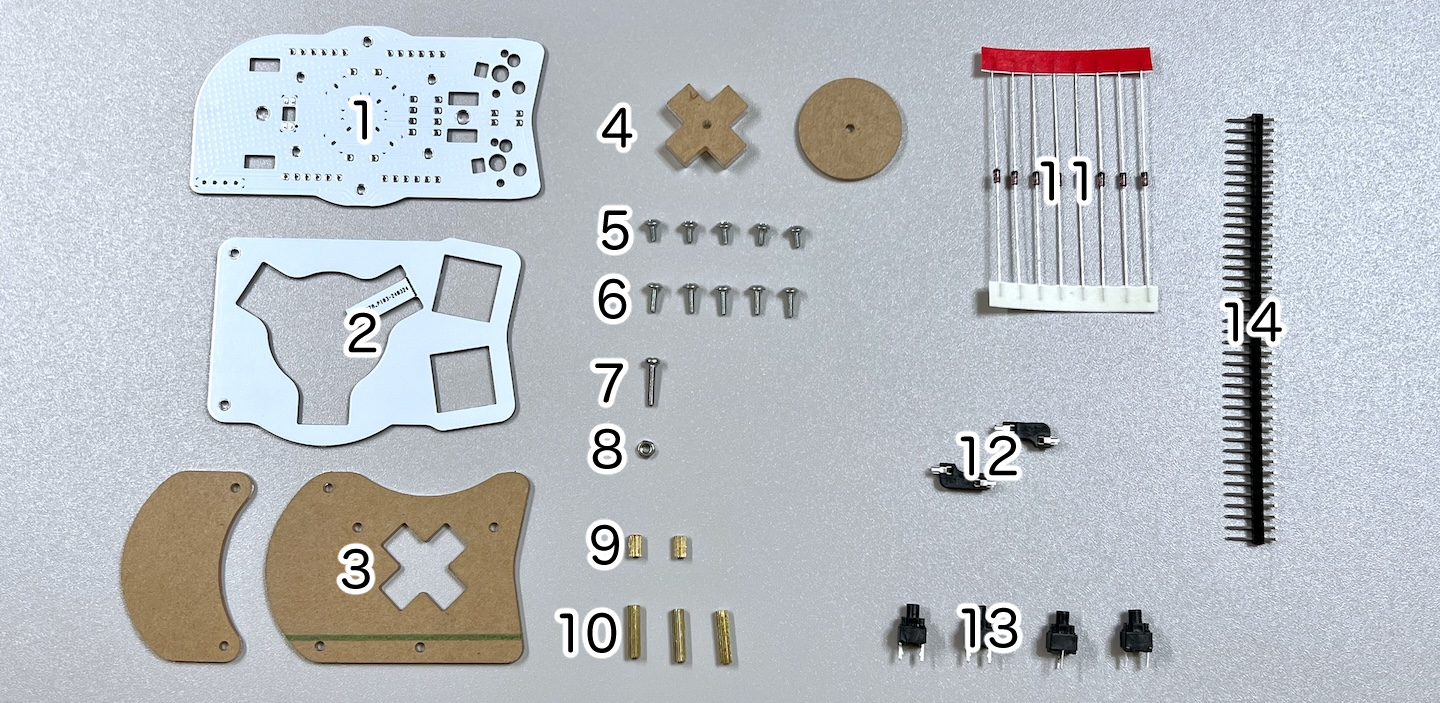
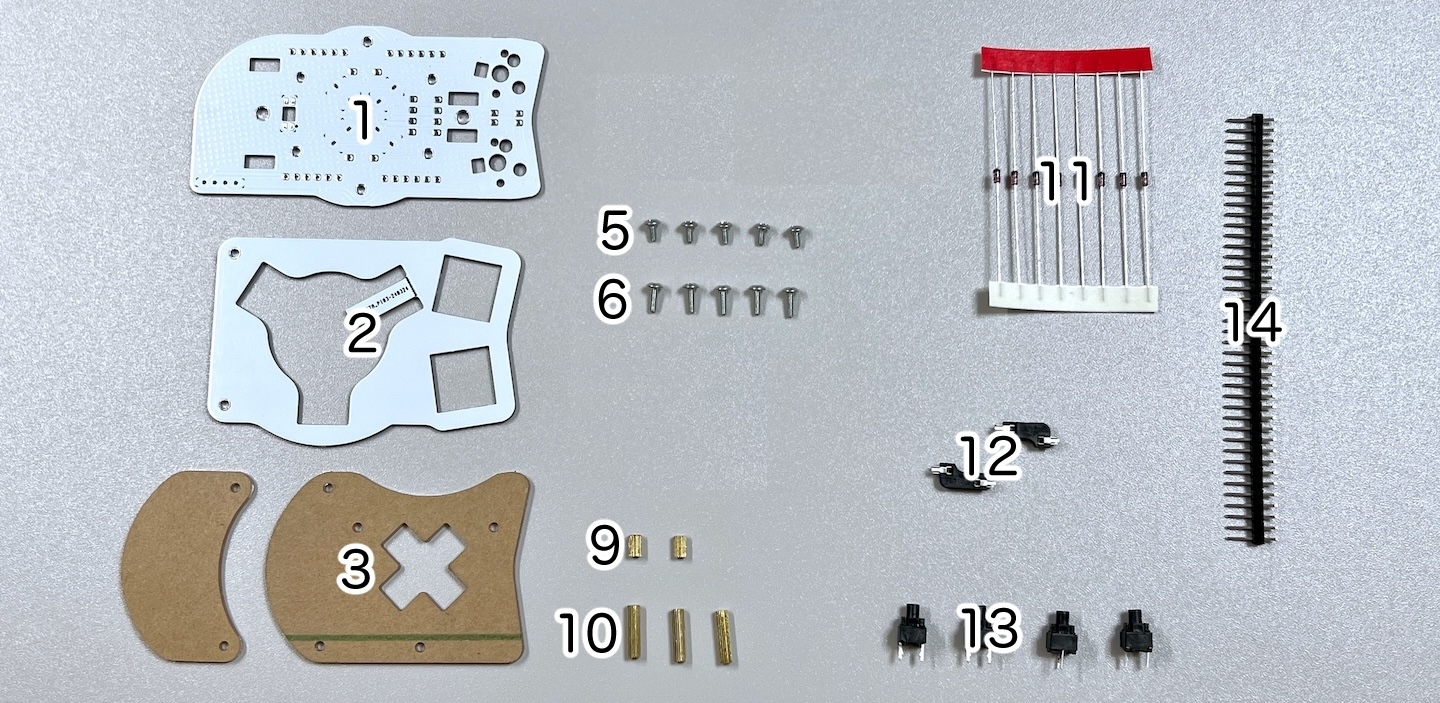
upd

Changed region(s): [[0.4062, 0.0896, 0.6562, 0.2688], [0.4062, 0.5078, 0.4688, 0.6871]]

diff --git a/rightside/3_SIDE_DPAD.md b/rightside/3_SIDE_DPAD.md
@@ -15,7 +15,7 @@
 8. [Misc](../rightside/8_MISC.md)
 
 ## Contents
-![](../img/3_2_dpad_r/3_1_1_contents.jpg)      
+![](../img/3_2_dpad_r/3_1_1_contents.jpg)
 ||types|quantities||
 |-|-|-|-|
 |1|Mainboard|1|FR4|
@@ -33,50 +33,53 @@
 |13|Mute switches|4|
 |14|Pin header|1||
 
+The following 3D printed parts are also used.
+![](../img/3_1_trackball_r/IMG_3353.jpg)
+
 ## Soldering
 Note that components will be placed on both sides of the side unit.
-![](../img/3_2_dpad_r/3_1_2_overall.jpg)  
+![](../img/3_2_dpad_r/3_1_2_overall.jpg)
 The PCB side with text in Japanese is the back side.
 
-### Soldering of the LEDs (optional)  
+### Soldering of the LEDs (optional)
 Solder the 3 LEDs. The round LED should be facing away from the side where soldering is done.
-![](../img/3_2_dpad_r/3_1_3_led.jpg)  
+![](../img/3_2_dpad_r/3_1_3_led.jpg)
 
 ### Soldering of MX hotswap socket (back side)
 From the back side of the unit, solder the MX hotswap sockets while keeping them in place with tweezers.
-![](../img/3_2_dpad_r/3_1_4_mxsocket.jpg)  
+![](../img/3_2_dpad_r/3_1_4_mxsocket.jpg)
 
 
 ### Soldering of the diodes (back side)
 Diodes are directional components. Make sure to align the lines with markings on the PCB.
-![](../img/c_diode.jpg)  
+![](../img/c_diode.jpg)
 Insert the diodes in the 4 locations on the back side of the PCB, and solder from the front side of the PCB, and cut the diode legs.
-![](../img/3_2_dpad_r/3_1_5_diodes.jpg)   
+![](../img/3_2_dpad_r/3_1_5_diodes.jpg)
 
 
 ### Soldering of pin headers (back side)
-Cut out four sets of 6 pins from the 40 pin headers. 
+Cut out four sets of 6 pins from the 40 pin headers.
 
-![](../img/c_pin_header_6.jpg)   
+![](../img/c_pin_header_6.jpg)
 Insert the pin headers from the back side and solder.
 > [!WARNING]
 > Insert the long side of the pins. In case you did it the other way around, cut the long side in order to match the length of the short side.
 
-![](../img/3_2_dpad_r/3_1_10_pin_header.jpg) 
+![](../img/3_2_dpad_r/3_1_10_pin_header.jpg)
 
 ### Soldering of OLED Display (optional, front side)
-If you want to make the OLED module removable, solder a 4pin socket on the surface.  
-![](../img/3_2_dpad_r/3_1_11_oled_socket.jpg)   
+If you want to make the OLED module removable, solder a 4pin socket on the surface.
+![](../img/3_2_dpad_r/3_1_11_oled_socket.jpg)
 
 Solder the pin headers to the OLED module.
-![](../img/c_oled_header.jpg)  
+![](../img/c_oled_header.jpg)
 If the OLED module is to be soldered directly, solder it to the main board at this time.
 
 ### Mute switch
 ### Soldering of the Kailh mute switches (front side)
 Insert the switches from the front side of the PCB and solder from the back side.
 
-![](../img/3_2_dpad_r/3_1_12_mute_switch.jpg)  
+![](../img/3_2_dpad_r/3_1_12_mute_switch.jpg)
 
 
 ## Intermediate assembly and soldering of sockets
@@ -84,17 +87,17 @@ Insert the switches from the front side of the PCB and solder from the back side
 ### Assembling the switch plate
 
 If the switch plate is tagged, fold it and then sand it.
-![](../img/c_switch_l.jpg)   
+![](../img/c_switch_l.jpg)
 Attach the M2 long spacers and M2 short screws to the switch plate.
 > [!NOTE]
 > The switch plate has an orientation (lower and top part).
 
-![](../img/3_2_dpad_r/3_1_15_switch_1.jpg)  
-  
-Attach the protection acrylic sheets to the spacers with M2 middle screws.  
-![](../img/3_2_dpad_r/3_1_16_switch_2.jpg) 
+![](../img/3_2_dpad_r/3_1_15_switch_1.jpg)
+
+Attach the protection acrylic sheets to the spacers with M2 middle screws.
+![](../img/3_2_dpad_r/3_1_16_switch_2.jpg)
 Put the large protection acrylic sheet on top.
-![](../img/3_2_dpad_r/3_1_17_switch_3.jpg)  
+![](../img/3_2_dpad_r/3_1_17_switch_3.jpg)
 
 ### Connecting to the BASE unit
 Attach long M2 spacers with M2 short screws to the SIDE unit.
@@ -102,39 +105,37 @@ Attach long M2 spacers with M2 short screws to the SIDE unit.
 > [!NOTE]
 > There should be one spacer on the bottom side of the SIDE unit and two to the top, forming an equilateral triangle.
 
-![](../img/3_2_dpad_r/3_1_18_spacers.jpg)  
+![](../img/3_2_dpad_r/3_1_18_spacers.jpg)
 
 
 If this is the first SIDE unit that you have built, remove two sets of 6 pins from the remaining BASE unit pin headers, and insert them in the pin sockets of the SIDE unit.
-![](../img/c_pin_socket_6.jpg)   
-![](../img/3_2_dpad_r/3_1_19_pinsocket.jpg)  
+![](../img/c_pin_socket_6.jpg)
+![](../img/3_2_dpad_r/3_1_19_pinsocket.jpg)
 
-Place the SIDE unit on the supports and secure it with the M3 screws excessed in base unit. 
+Place the SIDE unit on the supports and secure it with the M3 screws excessed in base unit.
 > [!CAUTION]
 > Make sure that the legs of the pin sockets are inside the long through-holes of the BASE unit.
 
-![](../img/3_2_dpad_r/3_1_27_base_1.jpg)   
+![](../img/3_2_dpad_r/3_1_27_base_1.jpg)
 
 Solder the pin sockets from the back side of the BASE unit.
-![](../img/3_2_dpad_r/3_1_28_base_2.jpg)  
+![](../img/3_2_dpad_r/3_1_28_base_2.jpg)
 This is the last soldering step for the SIDE unit.
 
-In case you plan on using the OLED module, insert it in the pin socket.  
-![](../img/3_2_dpad_r/3_1_29_base_3.jpg)   
+In case you plan on using the OLED module, insert it in the pin socket.
+![](../img/3_2_dpad_r/3_1_29_base_3.jpg)
 
-Attach MX switches to the switch plate, and insert them in the MX sockets, so that the D pad is in the middle.   
-![](../img/3_2_dpad_r/3_1_30_complete.jpg)   
-Secure the protection plate with M2 middle screws.
- 
+Attach MX switches to the switch plate, and insert them in the MX sockets, so that the D pad is in the middle.
+![](../img/3_2_dpad_l/IMG_3356.jpg)
+![](../img/3_2_dpad_r/3_1_30_complete.jpg)
 
-Confirm that everything is working by connecting the unit to a computer with a USB cable.  
+
+Confirm that everything is working by connecting the unit to a computer with a USB cable.
 > [!NOTE]
-> The LEDs will not work until the TOP (and ADD) units are completed.  
+> The LEDs will not work until the TOP (and ADD) units are completed.
 
 If the keys and ball are working, proceed with the TOP unit assembly
 There are two types of top unit: the one included in the package, and a top unit with wheels sold separately.
 
 4. [TOP Unit](../rightside/4_TOP.md)
    - [TOP Unit with wheel (sold separately)](../rightside/4_TOP_WHEEL.md)
-
-

diff --git a/leftside/3_SIDE_DPAD.md b/leftside/3_SIDE_DPAD.md
@@ -15,7 +15,7 @@
 8. [Misc](../leftside/8_MISC.md)
 
 ## Contents
-![](../img/3_2_dpad_l/3_1_1_contents.jpg)      
+![](../img/3_2_dpad_l/3_1_1_contents.jpg)
 ||types|quantities||
 |-|-|-|-|
 |1|Mainboard|1|FR4|
@@ -33,50 +33,53 @@
 |13|Mute switches|4|
 |14|Pin header|1||
 
+The following 3D printed parts are also used.
+![](../img/3_1_trackball_r/IMG_3353.jpg)
+
 ## Soldering
 Note that components will be placed on both sides of the side unit.
-![](../img/3_2_dpad_l/3_1_2_overall.jpg)  
+![](../img/3_2_dpad_l/3_1_2_overall.jpg)
 The PCB side with text in Japanese is the back side.
 
-### Soldering of the LEDs (optional)  
+### Soldering of the LEDs (optional)
 Solder the 3 LEDs. The round LED should be facing away from the side where soldering is done.
-![](../img/3_2_dpad_l/3_1_3_led.jpg)  
+![](../img/3_2_dpad_l/3_1_3_led.jpg)
 
 ### Soldering of MX hotswap socket (back side)
 From the back side of the unit, solder the MX hotswap sockets while keeping them in place with tweezers.
-![](../img/3_2_dpad_l/3_1_4_mxsocket.jpg)  
+![](../img/3_2_dpad_l/3_1_4_mxsocket.jpg)
 
 
 ### Soldering of the diodes (back side)
 Diodes are directional components. Make sure to align the lines with markings on the PCB.
-![](../img/c_diode.jpg)  
+![](../img/c_diode.jpg)
 Insert the diodes in the 8 locations on the back side of the PCB, and solder from the front side of the PCB, and cut the diode legs.
-![](../img/3_2_dpad_l/3_1_5_diodes.jpg)   
+![](../img/3_2_dpad_l/3_1_5_diodes.jpg)
 
 
 ### Soldering of pin headers (back side)
-Cut out four sets of 6 pins from the 40 pin headers. 
+Cut out four sets of 6 pins from the 40 pin headers.
 
-![](../img/c_pin_header_6.jpg)   
+![](../img/c_pin_header_6.jpg)
 Insert the pin headers from the back side and solder.
 > [!WARNING]
 > Insert the long side of the pins. In case you did it the other way around, cut the long side in order to match the length of the short side.
 
-![](../img/3_2_dpad_l/3_1_10_pin_header.jpg) 
+![](../img/3_2_dpad_l/3_1_10_pin_header.jpg)
 
 ### Soldering of OLED Display (optional, front side)
-If you want to make the OLED module removable, solder a 4pin socket on the surface.  
-![](../img/3_2_dpad_l/3_1_11_oled_socket.jpg)   
+If you want to make the OLED module removable, solder a 4pin socket on the surface.
+![](../img/3_2_dpad_l/3_1_11_oled_socket.jpg)
 
 Solder the pin headers to the OLED module.
-![](../img/c_oled_header.jpg)  
+![](../img/c_oled_header.jpg)
 If the OLED module is to be soldered directly, solder it to the main board at this time.
 
 ### Mute switch
 ### Soldering of the Kailh mute switches (front side)
 Insert the switches from the front side of the PCB and solder from the back side.
 
-![](../img/3_2_dpad_l/3_1_12_mute_switch.jpg)  
+![](../img/3_2_dpad_l/3_1_12_mute_switch.jpg)
 
 
 ## Intermediate assembly and soldering of sockets
@@ -84,17 +87,17 @@ Insert the switches from the front side of the PCB and solder from the back side
 ### Assembling the switch plate
 
 If the switch plate is tagged, fold it and then sand it.
-![](../img/c_switch_l.jpg)   
+![](../img/c_switch_l.jpg)
 Attach the M2 long spacers and M2 short screws to the switch plate.
 > [!NOTE]
 > The switch plate has an orientation (lower and top part).
 
-![](../img/3_2_dpad_l/3_1_15_switch_1.jpg)  
-  
-Attach the protection acrylic sheets to the spacers with M2 middle screws.  
-![](../img/3_2_dpad_l/3_1_16_switch_2.jpg) 
+![](../img/3_2_dpad_l/3_1_15_switch_1.jpg)
+
+Attach the protection acrylic sheets to the spacers with M2 middle screws.
+![](../img/3_2_dpad_l/3_1_16_switch_2.jpg)
 Put the large protection acrylic sheet on top.
-![](../img/3_2_dpad_l/3_1_17_switch_3.jpg)  
+![](../img/3_2_dpad_l/3_1_17_switch_3.jpg)
 
 ### Connecting to the BASE unit
 Attach long M2 spacers with M2 short screws to the SIDE unit.
@@ -102,38 +105,37 @@ Attach long M2 spacers with M2 short screws to the SIDE unit.
 > [!NOTE]
 > There should be one spacer on the bottom side of the SIDE unit and two to the top, forming an equilateral triangle.
 
-![](../img/3_2_dpad_l/3_1_18_spacers.jpg)  
+![](../img/3_2_dpad_l/3_1_18_spacers.jpg)
 
 
 If this is the first SIDE unit that you have built, remove two sets of 6 pins from the remaining BASE unit pin headers, and insert them in the pin sockets of the SIDE unit.
-![](../img/c_pin_socket_6.jpg)   
-![](../img/3_2_dpad_l/3_1_19_pinsocket.jpg)  
+![](../img/c_pin_socket_6.jpg)
+![](../img/3_2_dpad_l/3_1_19_pinsocket.jpg)
 
-Place the SIDE unit on the supports and secure it with the M3 screws excessed in base unit. 
+Place the SIDE unit on the supports and secure it with the M3 screws excessed in base unit.
 > [!CAUTION]
 > Make sure that the legs of the pin sockets are inside the long through-holes of the BASE unit.
 
-![](../img/3_2_dpad_l/3_1_27_base_1.jpg)   
+![](../img/3_2_dpad_l/3_1_27_base_1.jpg)
 
 Solder the pin sockets from the back side of the BASE unit.
-![](../img/3_2_dpad_l/3_1_28_base_2.jpg)  
+![](../img/3_2_dpad_l/3_1_28_base_2.jpg)
 This is the last soldering step for the SIDE unit.
 
-In case you plan on using the OLED module, insert it in the pin socket.  
-![](../img/3_2_dpad_l/3_1_29_base_3.jpg)   
+In case you plan on using the OLED module, insert it in the pin socket.
+![](../img/3_2_dpad_l/3_1_29_base_3.jpg)
 
-Attach MX switches to the switch plate, and insert them in the MX sockets, so that the D pad is in the middle.   
-![](../img/3_2_dpad_l/3_1_30_complete.jpg)   
-Secure the protection plate with M2 middle screws.
- 
+Attach MX switches to the switch plate, and insert them in the MX sockets, so that the D pad is in the middle.
+![](../img/3_2_dpad_l/IMG_3356.jpg)
+![](../img/3_2_dpad_l/3_1_30_complete.jpg)
 
-Confirm that everything is working by connecting the unit to a computer with a USB cable.  
+
+Confirm that everything is working by connecting the unit to a computer with a USB cable.
 > [!NOTE]
-> the LEDs will not work until the TOP (and ADD) units are completed.  
+> the LEDs will not work until the TOP (and ADD) units are completed.
 
 If the keys and ball are working, proceed with the TOP unit assembly
 There are two types of top unit: the one included in the package, and a top unit with wheels sold separately.
- 
+
 4. [TOP Unit](../leftside/4_TOP.md)
    - [TOP Unit with wheel (sold separately)](../leftside/4_TOP_WHEEL.md)
-

diff --git a/右手用/3_側面ユニット_十字キー.md b/右手用/3_側面ユニット_十字キー.md
@@ -21,17 +21,17 @@
 |1|メインボード|1|FR4|
 |2|スイッチプレート|1|FR4|
 |3|保護プレート|2|アクリル|
-|4|十字キー用プレート|2|アクリル|
 |5|M2ネジ（短）|5|4mm|
 |6|M2ネジ（中）|5|6mm|
-|7|M2ネジ（長）|1|10mm|
-|8|M2ナット|1||
 |9|M2スペーサー（短）|2|5mm
 |10|M2スペーサー（長）|3|12mm|
 |11|ダイオード|8|1N4148|
 |12|MXスイッチソケット|2||
 |13|ミュートスイッチ|4|
 |14|ピンヘッダ|1||
+
+以下の3Dプリンター製部品も使います。
+![](../img/3_1_trackball_r/IMG_3353.jpg)
 
 ## はんだ付け
 側面ユニットは表裏両方に部品をはんだ付けします。
@@ -112,8 +112,8 @@ OLEDモジュールにはOLED用ピンヘッダをはんだ付けします。   
 OLEDモジュールを使う場合はここでピンソケットに差し込みます。
 ![](../img/3_2_dpad_r/3_1_29_base_3.jpg)
 
-十字キー用プレートをM2ネジ（長）とナットで固定します。
-![](../img/3_2_dpad_r/3_1_30_dpad.jpg)
+十字キー用3Dプリンター部品を組み合わせます。
+![](../img/3_2_dpad_l/IMG_3356.jpg)
 
 十字キーを挟み込むようにして、スイッチプレートにキースイッチを取り付けてMXソケットに差し込みます。
 ![](../img/3_2_dpad_r/3_1_30_complete.jpg)

diff --git a/左手用/3_側面ユニット_十字キー.md b/左手用/3_側面ユニット_十字キー.md
@@ -21,17 +21,17 @@
 |1|メインボード|1|FR4|
 |2|スイッチプレート|1|FR4|
 |3|保護プレート|2|アクリル|
-|4|十字キー用プレート|2|アクリル|
 |5|M2ネジ（短）|5|4mm|
 |6|M2ネジ（中）|5|6mm|
-|7|M2ネジ（長）|1|10mm|
-|8|M2ナット|1||
 |9|M2スペーサー（短）|2|5mm
 |10|M2スペーサー（長）|3|12mm|
 |11|ダイオード|8|1N4148|
 |12|MXスイッチソケット|2||
 |13|ミュートスイッチ|4|
 |14|ピンヘッダ|1||
+
+以下の3Dプリンター製部品も使います。
+![](../img/3_1_trackball_r/IMG_3353.jpg)
 
 ## はんだ付け
 側面ユニットは表裏両方に部品をはんだ付けします。
@@ -112,8 +112,8 @@ OLEDモジュールにはOLED用ピンヘッダをはんだ付けします。   
 OLEDモジュールを使う場合はここでピンソケットに差し込みます。
 ![](../img/3_2_dpad_l/3_1_29_base_3.jpg)
 
-十字キー用プレートをM2ネジ（長）とナットで固定します。
-![](../img/3_2_dpad_l/3_1_30_dpad.jpg)
+十字キー用3Dプリンター部品を組み合わせます。
+![](../img/3_2_dpad_l/IMG_3356.jpg)
 
 十字キーを挟み込むようにして、スイッチプレートにキースイッチを取り付けてMXソケットに差し込みます。
 ![](../img/3_2_dpad_l/3_1_30_complete.jpg)
